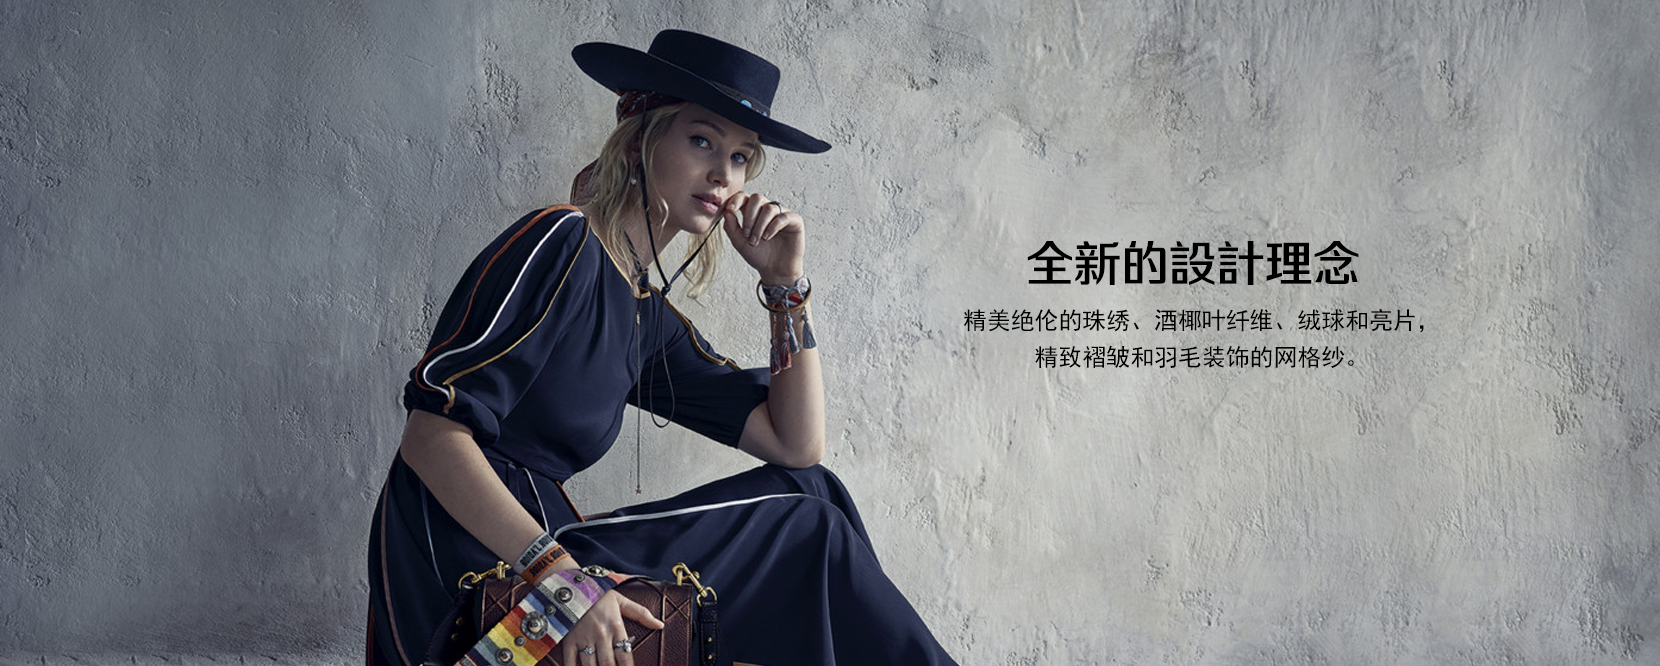
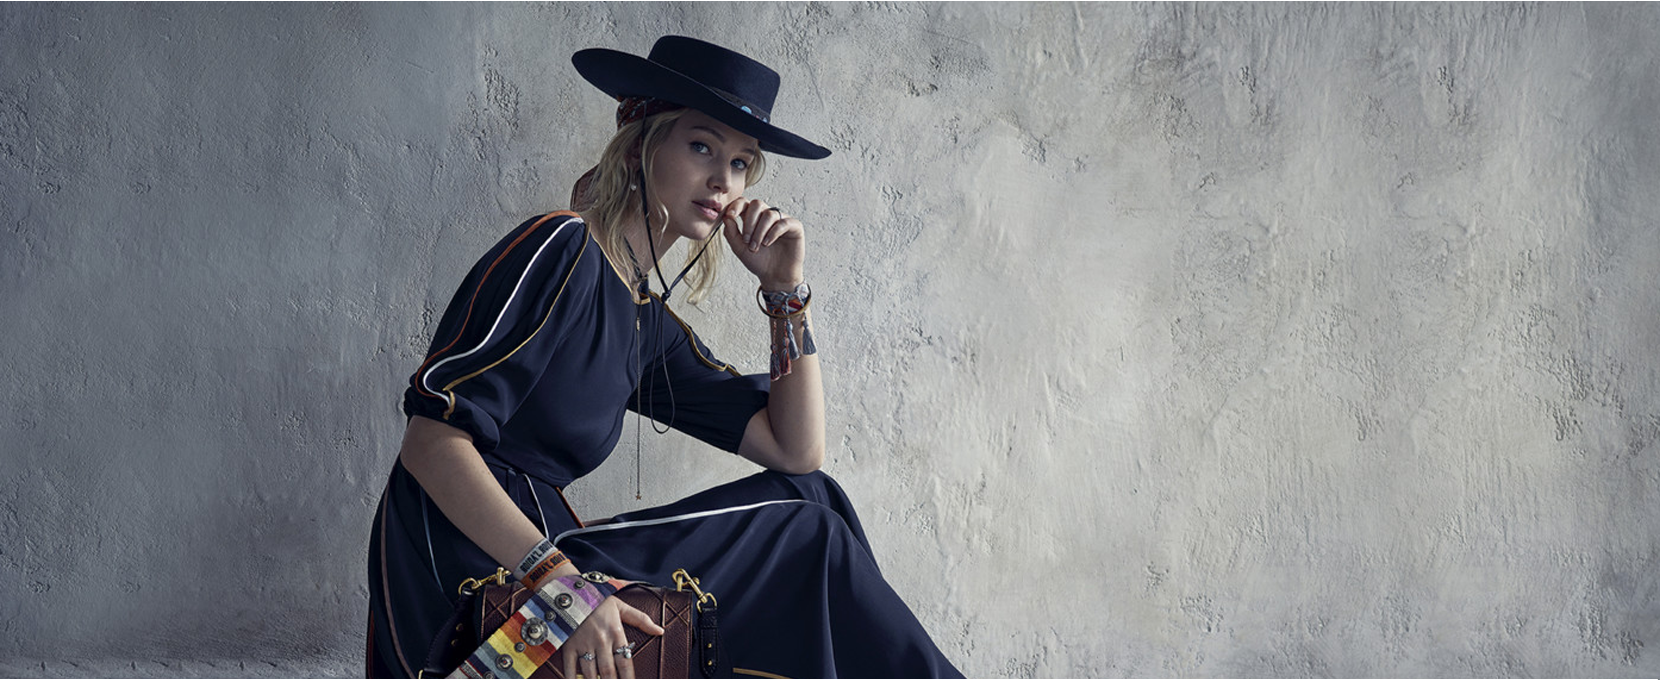
1234

diff --git a/index.html b/index.html
@@ -14,15 +14,19 @@
 </head>
 
 <body>
+
     <div style='background-image: url(imgs/DaoHangBeiJing.png);width: 100%'>
         <div id='daohang' class="row">
             <div class="col-sm-1"></div>
             <div id='logo' class="col-sm-1 " style='height:56px'>
                 <img src="imgs/lu.png" class="logo">
             </div>
-            <div id='caidan' class="col-sm-9 " style=' text-align: right;height:56px；'>
-                <div class="btn btn-default menuBtn" style="border: 0;color: #ff0000;background: rgba(0, 0, 255, 0)"><b>首页</b></div>
-                <div class="btn btn-default menuBtn" style="border: 0;color: #ffffff;background: rgba(0, 0, 255, 0)">高定礼服</div>
+            <div id='caidan' class="col-sm-9 " style=' text-align: right;height:56px;'>
+                <!--                <div id='a' class="menuBtn" >XXXX</div>-->
+                <div id='a' class="btn btn-default menuBtn" style="border: 0;color: red; background: none"><b>首页</b>
+                </div>
+
+                <div class="btn btn-default menuBtn hover" style="border: 0;color: #ffffff;background: rgba(0, 0, 255, 0)">高定礼服</div>
                 <div class="btn btn-default menuBtn" style="border: 0;color: #ffffff;background: rgba(0, 0, 255, 0)">当季新品</div>
                 <div class="btn btn-default menuBtn" style="border: 0;color: #ffffff;background: rgba(0, 0, 255, 0)">时装秀场</div>
                 <div class="btn btn-default menuBtn " style="border: 0;color: #ffffff;background: rgba(0, 0, 255, 0)">大师匠心</div>
@@ -34,16 +38,26 @@
 
     <div id='zhutitu' class="row">
 
-        <div class="col-sm-12 " style='background:#AAA;height:610px'>
 
+        <div class="col-sm-12 " style='height:610px；'>
+            <img src="imgs/zhutitu.png" class="weizhi2" style="width: 100%;overflow: hidden">
 
-            <img src="imgs/zhutitu.png" style="width: 100%">
-            <div class="btn btn-default loa" style="border-radius: 0;">探索新品</div>
+            <div class="row">
+                <div class="col-sm-1"></div>
+                <div class="col-sm-4 weizhi1">
+
+                    <div><img src="imgs/font1.png"></div>
+                    <br />
+                    <div class="btn btn-default " style="border-radius: 0;">探索新品</div>
+
+                </div>
+                <div class="col-sm-7"></div>
+            </div>
         </div>
-        <div class="col-sm-0"></div>
+
     </div>
 
-    <div class="row" style="height: 72px"></div>
+    <div class="row" style="height: 360px"></div>
 
     <div id='fenlei' class="row">
         <div class="col-sm-2"></div>
@@ -66,39 +80,45 @@
     <div class="row" style="height: 160px"></div>
 
     <div id='disihang' class="row">
-        <div class="col-sm-0"></div>
-        <div class="col-sm-12 " style='background:#AAA;height:610px'>
+        <div class="col-sm-12 " style='height:610px；'>
+            <img src="imgs/shejilinian.png" class="weizhi2" style="width: 100%;overflow: hidden">
 
+            <div class="row">
+                <div class="col-sm-6"></div>
+                <div class="col-sm-6 weizhi1">
 
-            <img src="imgs/shejilinian.png" style="width: 100%">
-            <div class="btn btn-default loa3" style="border-radius: 0;">探索新品</div>
-        </div>
-        <div class="col-sm-0"></div>
-    </div>
+                    <div><img src="imgs/font2.png"></div>
+                    <br />
+                    <div class="btn btn-default " style="border-radius: 0;">探索新品</div>
 
+                </div>
 
-    <div class="row" style="height: 80px"></div>
-
-
-<!--
-    <div id='diwuhang' class="row">
-
-        <h1 align="center">2018早春成衣系列时装秀</h1>
-        <div>
-        <h3 align="center">了解该系列</h3>
-        </div>
-
-        <div >
-
-        <img src="imgs/zaoxing1.jpg" style="width:180px;position: absolute; padding-left:227px ;padding-top: 0px">
-        <img src="imgs/zaoxing3.jpg" style="width:180px;position: absolute; padding-left:1050px ;padding-top: 0px">
-        <img src="imgs/zaoxing2.jpg" style="width:242px;position: absolute; padding-left:370px ;padding-top: 0px">
-        <img src="imgs/zaoxing5.jpg" style="width:242px;position: absolute; padding-left:836px ;padding-top: 500px">
-        <img src="imgs/zaoxing1.jpg" style="width:320px;  position: absolute; padding-left:560px ">
+            </div>
         </div>
 
     </div>
--->
+
+
+    <div class="row" style="height: 300px"></div>
+
+    <div id="diwuhang" class="row" style="height: 0px">
+        <div class="col-sm-1"></div>
+        <div class="col-sm-10">
+            <h2 align="center">2018早春成衣系列时装秀</h2>
+            <h4 align="center">了解该系列</h4>
+            <img src="imgs/zaoxing5.jpg" class="loca3">
+            <img src="imgs/zaoxing3.jpg" class="loca4">
+            <img src="imgs/zaoxing2.jpg" class="loca2">
+            <img src="imgs/zaoxing4.jpg" class="loca5">
+            <img src="imgs/zaoxing1.jpg" class="loca1">
+
+        </div>
+        <div class="col-sm-1"></div>
+
+    </div>
+
+
+
 
 
 

diff --git a/index2.html b/index2.html
@@ -1,18 +1,63 @@
 <html>
     <head>
-    <title>super
-    </title>
+    <meta charset="utf-8">
+    <meta name="viewport" content="width=device-width, initial-scale=1, maximum-scale=1, user-scalable=no">
+    <title>测试网站</title>
     <link rel="stylesheet" href="index2.css">
+
+    <link rel="icon" href="imgs/lu.png"> >
+    <script src="https://cdn.bootcss.com/jquery/3.2.1/jquery.min.js"></script>
+    <link href="https://cdn.bootcss.com/bootstrap/3.3.7/css/bootstrap.min.css" rel="stylesheet">
+    <script src="https://cdn.bootcss.com/bootstrap/3.3.7/js/bootstrap.min.js"></script>
+    <script>
+        $(function() {
+            $('[data-toggle="popover"]').popover()
+        })
+    </script>
 </head>
 
 <body>
-    <a class="menuText" href="" target="_blank">
-        <div class="menu">
-            <div class="menuTextUp">百度</div>
-            <div class="menuTextDown">百度</div>
+    <div id='picbox' class="row">
+        <div id='minpic' class="col-xs-6 col-md-3">
+            <a href="#" class="thumbnail">
+                <img id='tupian' src="imgs/shejilinian.png" alt="..." >
+                <h4 id="wenzi">hello</h4>
+            </a>
         </div>
-    </a>
+    </div>
+
+    <script>
+        //        $('#picbox').append($('#minpic').clone());
+        //         $('#picbox').append($('#minpic').clone());
+
+        var nvhai = {
+            src: 'imgs/zhutitu.png',
+            wenzi: '女孩',
+        }
+
+        var zaoxing = {
+            src: 'imgs/nvzhuang.png',
+            wenzi: '造型',
+        }
+
+        var shujuji = [nvhai, zaoxing];
+
+
+        function fuzhi(shuju) {
+
+
+
+        }
+
+        for (var i = 0; i < 2; i++) {
+
+            fuzhi(shujuji[i]);
+        }
+    </script>
+
 
 </body>
+
+
 
 </html>

diff --git a/index.css b/index.css
@@ -5,11 +5,14 @@
 }
 .menuBtn {
     width: 100px;
-    margin-top: 9px;
+    margin-top: 12px;
+    background: #cccccc;
 }
-.menuHover:hover {
-        color: red;
-    }
+.menuBtn:hover {
+    background: red;
+}
+
+
 .loa {
     border-radius: 0;
     position: relative;
@@ -37,4 +40,81 @@
     position: relative;
     margin-top: -220px;
     margin-left: 900px;
+}
+
+.hover:hover {
+        color: red;
+    }
+
+.weizhi1 {
+    position: relative;
+    text-align: center;
+    margin-top: 200;
+    z-index: 2;
+}
+
+.weizhi3 {
+    position: relative;
+    text-align: center;
+    margin-top: 200;
+    z-index: 2;
+}
+.weizhi2{
+    position: absolute;
+    margin-top: 0;
+}
+
+#shouye:hover {
+    color: green;
+}
+
+#a:hover {
+    color: red;
+}
+
+.loca1 {
+   width: 300px;
+    position: relative;
+    margin-left:50%;
+    margin-top: 1%;
+    transform: translate(-50%);
+    display: inline-block;
+}
+
+.loca2 {
+    width: 250px;
+    position: absolute;
+    margin-left:32%;
+    margin-top: 4%;
+    transform: translate(-50%);
+    display: inline-block;
+}
+
+.loca3 {
+    width: 200px;
+    position: absolute;
+    margin-left:18%;
+    margin-top: 7%;
+    transform: translate(-50%);
+    display: inline-block;
+}
+
+.loca4 {
+    width: 200px;
+    position: absolute;
+    margin-left:82%;
+    margin-top: 7%;
+    transform: translate(-50%);
+    display: inline-block;
+
+}
+
+.loca5 {
+    width: 250px;
+    position: absolute;
+    margin-left:68%;
+    margin-top: 4%;
+    transform: translate(-50%);
+    display: inline-block;
+
 }
